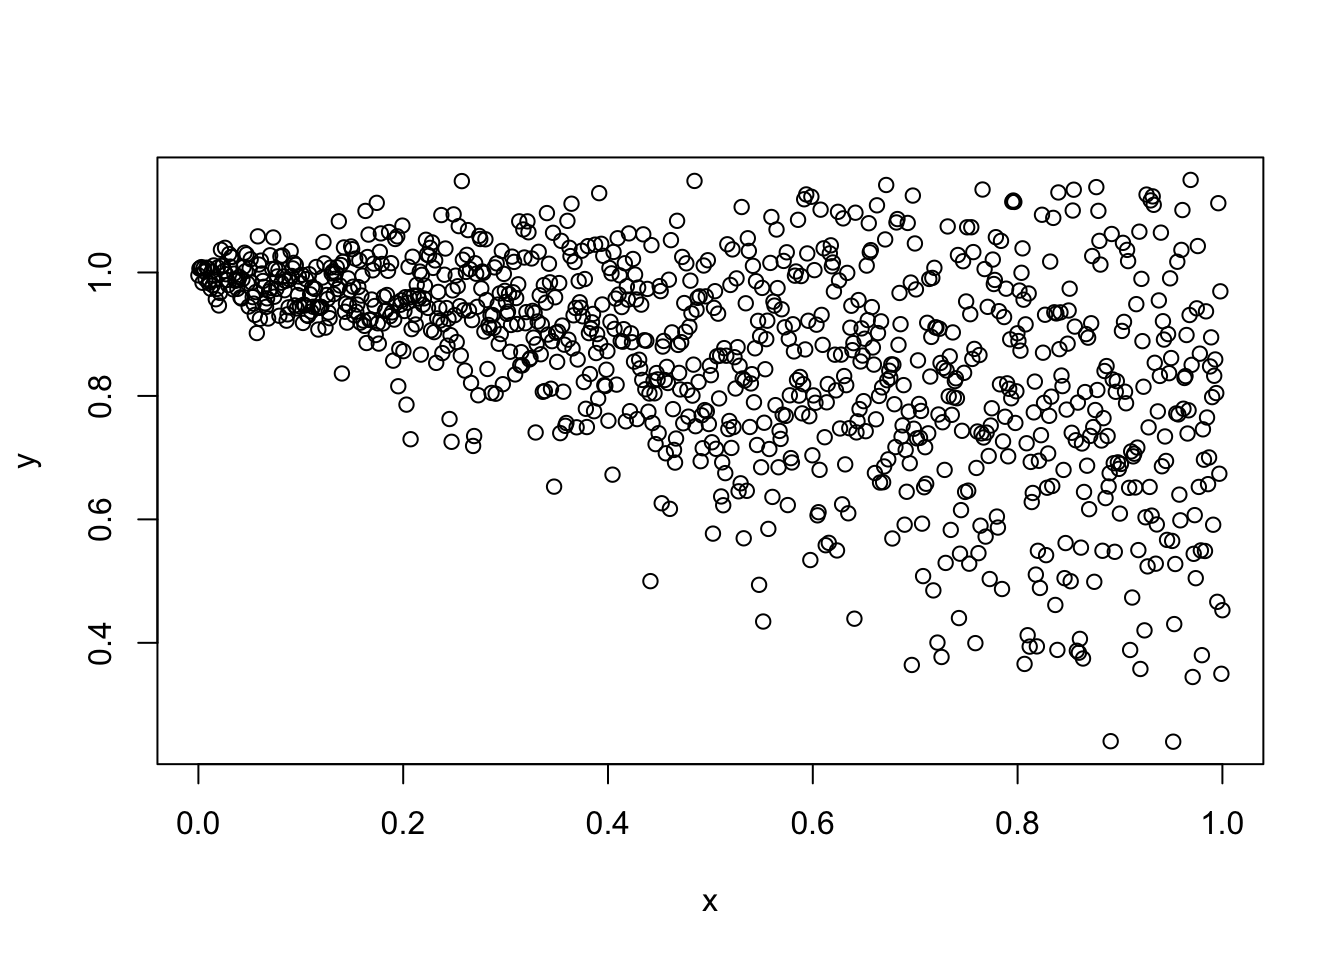
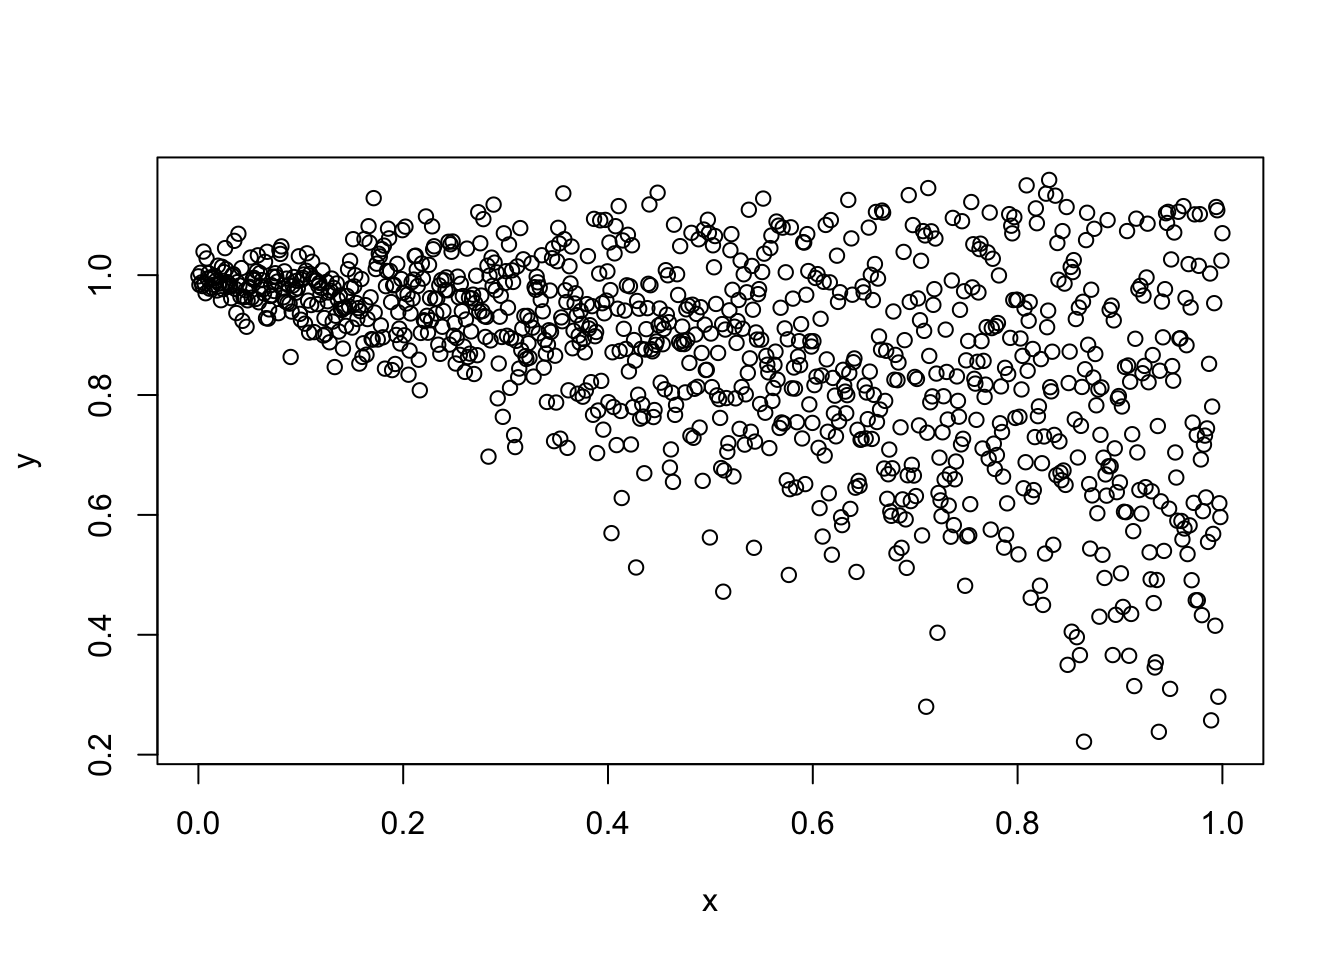
Updating page

diff --git a/docs/index.html b/docs/index.html
@@ -175,7 +175,10 @@ pre > code.sourceCode > span > a:first-child::before { text-decoration: underlin
 
 </header>
 
-<p>Heteroskedastic data (data with non-constant variability across the range of one or more independent variables) occurs in numerous contexts. Using ordinary least squares regression can obscure important features of the relationship between the independent and dependent variable.</p>
+<p>Heteroskedastic data (data with non-constant variability across the range of one or more independent variables) occurs in numerous contexts. Using ordinary least squares regression can obscure important features of the relationship between the independent and dependent variable. Ordinary least squares regression assumes data follows a linear trend and that it is homoskedastic across the range of the independent variable(s). Strictly, this is rarely ever the case but the differences obtained from modelling using techniques that relax these assumptions is not large.</p>
+<p>However, when data is demonstrably non-linear and/or heteroskedastistic, one can utilize quantile regression together with splines to model the entire distribution. The quantile regression allows one to examine heteroskasticitiy and the splines allow one to model any non-linearity.</p>
+<p>To illustrate I’ve created some simulated some heteroskedastic data and then fit the data using both OLS (red) and quantile regression (blue). The quantile regression is fit at the deciles (0.1, 0.2, 0.3, …, 0.9 quantiles). Whereas the OLS line models the conditional mean of the distribution, quantile regression models the conditional quantile. The most common quantile regression fit is for the conditional median, which is often quite close to the conditional mean.</p>
+<p>In addition, we model the data parametrically using lines as well as non-parametrically using splines. The simulated data was not created to include a lot of non-linearity, so the impact of fitting with splines is modest. However, other data may show more dramatic differences.</p>
 <div class="cell">
 <div class="sourceCode cell-code" id="cb1"><pre class="sourceCode r code-with-copy"><code class="sourceCode r"><span id="cb1-1"><a href="#cb1-1" aria-hidden="true" tabindex="-1"></a><span class="fu">library</span>(quantreg)</span></code><button title="Copy to Clipboard" class="code-copy-button"><i class="bi"></i></button></pre></div>
 <div class="cell-output cell-output-stderr">
@@ -197,9 +200,13 @@ Attaching package: 'SparseM'</code></pre>
 <span id="cb5-5"><a href="#cb5-5" aria-hidden="true" tabindex="-1"></a>y <span class="ot">&lt;-</span> <span class="sc">-</span>.<span class="dv">25</span><span class="sc">*</span>x <span class="sc">+</span> <span class="dv">1</span> <span class="sc">+</span> <span class="fu">rnorm</span>(<span class="dv">1000</span>, <span class="at">sd=</span><span class="fu">seq</span>(<span class="fl">0.02</span>, <span class="fl">0.25</span>, <span class="at">length=</span><span class="dv">1000</span>))</span>
 <span id="cb5-6"><a href="#cb5-6" aria-hidden="true" tabindex="-1"></a>y[y <span class="sc">&gt;=</span> <span class="fl">1.1</span>] <span class="ot">&lt;-</span> <span class="fl">1.1</span> <span class="sc">+</span> <span class="fu">rnorm</span>(<span class="fu">length</span>(y[y <span class="sc">&gt;=</span> <span class="fl">1.1</span>]), <span class="at">sd=</span><span class="fl">0.03</span>)</span>
 <span id="cb5-7"><a href="#cb5-7" aria-hidden="true" tabindex="-1"></a>lm<span class="fl">.1</span> <span class="ot">&lt;-</span> <span class="fu">lm</span>(y <span class="sc">~</span> x)</span>
-<span id="cb5-8"><a href="#cb5-8" aria-hidden="true" tabindex="-1"></a>lm.<span class="fl">1.</span>splines <span class="ot">&lt;-</span> <span class="fu">lm</span>(y <span class="sc">~</span> <span class="fu">bs</span>(x))</span>
-<span id="cb5-9"><a href="#cb5-9" aria-hidden="true" tabindex="-1"></a>qr<span class="fl">.1</span> <span class="ot">&lt;-</span> <span class="fu">rq</span>(y <span class="sc">~</span> x, <span class="at">tau=</span><span class="dv">1</span><span class="sc">:</span><span class="dv">9</span><span class="sc">/</span><span class="dv">10</span>)</span>
-<span id="cb5-10"><a href="#cb5-10" aria-hidden="true" tabindex="-1"></a>qr.<span class="fl">1.</span>splines <span class="ot">&lt;-</span> <span class="fu">rq</span>(y <span class="sc">~</span> <span class="fu">bs</span>(x), <span class="at">tau=</span><span class="dv">1</span><span class="sc">:</span><span class="dv">9</span><span class="sc">/</span><span class="dv">10</span>)</span></code><button title="Copy to Clipboard" class="code-copy-button"><i class="bi"></i></button></pre></div>
+<span id="cb5-8"><a href="#cb5-8" aria-hidden="true" tabindex="-1"></a>lm.<span class="fl">1.</span>predict <span class="ot">&lt;-</span> <span class="fu">predict</span>(lm<span class="fl">.1</span>)</span>
+<span id="cb5-9"><a href="#cb5-9" aria-hidden="true" tabindex="-1"></a>lm.<span class="fl">1.</span>splines <span class="ot">&lt;-</span> <span class="fu">lm</span>(y <span class="sc">~</span> <span class="fu">bs</span>(x))</span>
+<span id="cb5-10"><a href="#cb5-10" aria-hidden="true" tabindex="-1"></a>lm.<span class="fl">1.</span>splines.predict <span class="ot">&lt;-</span> <span class="fu">predict</span>(lm.<span class="fl">1.</span>splines)</span>
+<span id="cb5-11"><a href="#cb5-11" aria-hidden="true" tabindex="-1"></a>qr<span class="fl">.1</span> <span class="ot">&lt;-</span> <span class="fu">rq</span>(y <span class="sc">~</span> x, <span class="at">tau=</span><span class="dv">1</span><span class="sc">:</span><span class="dv">9</span><span class="sc">/</span><span class="dv">10</span>)</span>
+<span id="cb5-12"><a href="#cb5-12" aria-hidden="true" tabindex="-1"></a>qr.<span class="fl">1.</span>predict <span class="ot">&lt;-</span> <span class="fu">predict</span>(qr<span class="fl">.1</span>)</span>
+<span id="cb5-13"><a href="#cb5-13" aria-hidden="true" tabindex="-1"></a>qr.<span class="fl">1.</span>splines <span class="ot">&lt;-</span> <span class="fu">rq</span>(y <span class="sc">~</span> <span class="fu">bs</span>(x), <span class="at">tau=</span><span class="dv">1</span><span class="sc">:</span><span class="dv">9</span><span class="sc">/</span><span class="dv">10</span>)</span>
+<span id="cb5-14"><a href="#cb5-14" aria-hidden="true" tabindex="-1"></a>qr.<span class="fl">1.</span>splines.predict <span class="ot">&lt;-</span> <span class="fu">predict</span>(qr.<span class="fl">1.</span>splines)</span></code><button title="Copy to Clipboard" class="code-copy-button"><i class="bi"></i></button></pre></div>
 </div>
 <div class="tabset-margin-container"></div><div class="panel-tabset">
 <ul class="nav nav-tabs" role="tablist"><li class="nav-item" role="presentation"><a class="nav-link active" id="tabset-1-1-tab" data-bs-toggle="tab" data-bs-target="#tabset-1-1" role="tab" aria-controls="tabset-1-1" aria-selected="true">Data</a></li><li class="nav-item" role="presentation"><a class="nav-link" id="tabset-1-2-tab" data-bs-toggle="tab" data-bs-target="#tabset-1-2" role="tab" aria-controls="tabset-1-2" aria-selected="false">Linear Fit</a></li><li class="nav-item" role="presentation"><a class="nav-link" id="tabset-1-3-tab" data-bs-toggle="tab" data-bs-target="#tabset-1-3" role="tab" aria-controls="tabset-1-3" aria-selected="false">Spline Fit</a></li></ul>
@@ -215,11 +222,10 @@ Attaching package: 'SparseM'</code></pre>
 <div id="tabset-1-2" class="tab-pane" role="tabpanel" aria-labelledby="tabset-1-2-tab">
 <div class="cell">
 <div class="sourceCode cell-code" id="cb7"><pre class="sourceCode r code-with-copy"><code class="sourceCode r"><span id="cb7-1"><a href="#cb7-1" aria-hidden="true" tabindex="-1"></a><span class="fu">plot</span>(x, y)</span>
-<span id="cb7-2"><a href="#cb7-2" aria-hidden="true" tabindex="-1"></a><span class="fu">abline</span>(lm<span class="fl">.1</span>, <span class="at">col=</span><span class="st">"red"</span>)</span>
-<span id="cb7-3"><a href="#cb7-3" aria-hidden="true" tabindex="-1"></a><span class="fu">abline</span>(qr<span class="fl">.1</span>, <span class="at">col=</span><span class="st">"blue"</span>)</span></code><button title="Copy to Clipboard" class="code-copy-button"><i class="bi"></i></button></pre></div>
-<div class="cell-output cell-output-stderr">
-<pre><code>Warning in abline(qr.1, col = "blue"): only using the first two of 18 regression coefficients</code></pre>
-</div>
+<span id="cb7-2"><a href="#cb7-2" aria-hidden="true" tabindex="-1"></a><span class="fu">points</span>(x, lm.<span class="fl">1.</span>predict, <span class="at">type=</span><span class="st">"l"</span>, <span class="at">col=</span><span class="st">"red"</span>)</span>
+<span id="cb7-3"><a href="#cb7-3" aria-hidden="true" tabindex="-1"></a><span class="cf">for</span> (col.iter <span class="cf">in</span> <span class="fu">seq</span>(<span class="fu">ncol</span>(qr.<span class="fl">1.</span>predict))) {</span>
+<span id="cb7-4"><a href="#cb7-4" aria-hidden="true" tabindex="-1"></a>    <span class="fu">points</span>(x, qr.<span class="fl">1.</span>predict[,col.iter], <span class="at">type=</span><span class="st">"l"</span>, <span class="at">col=</span><span class="st">"blue"</span>)</span>
+<span id="cb7-5"><a href="#cb7-5" aria-hidden="true" tabindex="-1"></a>}</span></code><button title="Copy to Clipboard" class="code-copy-button"><i class="bi"></i></button></pre></div>
 <div class="cell-output-display">
 <p><img src="index_files/figure-html/unnamed-chunk-3-1.png" class="img-fluid" width="672"></p>
 </div>
@@ -227,12 +233,11 @@ Attaching package: 'SparseM'</code></pre>
 </div>
 <div id="tabset-1-3" class="tab-pane" role="tabpanel" aria-labelledby="tabset-1-3-tab">
 <div class="cell">
-<div class="sourceCode cell-code" id="cb9"><pre class="sourceCode r code-with-copy"><code class="sourceCode r"><span id="cb9-1"><a href="#cb9-1" aria-hidden="true" tabindex="-1"></a><span class="fu">plot</span>(x, y)</span>
-<span id="cb9-2"><a href="#cb9-2" aria-hidden="true" tabindex="-1"></a><span class="fu">abline</span>(lm<span class="fl">.1</span>, <span class="at">col=</span><span class="st">"red"</span>)</span>
-<span id="cb9-3"><a href="#cb9-3" aria-hidden="true" tabindex="-1"></a><span class="fu">abline</span>(qr<span class="fl">.1</span>, <span class="at">col=</span><span class="st">"blue"</span>)</span></code><button title="Copy to Clipboard" class="code-copy-button"><i class="bi"></i></button></pre></div>
-<div class="cell-output cell-output-stderr">
-<pre><code>Warning in abline(qr.1, col = "blue"): only using the first two of 18 regression coefficients</code></pre>
-</div>
+<div class="sourceCode cell-code" id="cb8"><pre class="sourceCode r code-with-copy"><code class="sourceCode r"><span id="cb8-1"><a href="#cb8-1" aria-hidden="true" tabindex="-1"></a><span class="fu">plot</span>(x, y)</span>
+<span id="cb8-2"><a href="#cb8-2" aria-hidden="true" tabindex="-1"></a><span class="fu">points</span>(x, lm.<span class="fl">1.</span>splines.predict, <span class="at">type=</span><span class="st">"l"</span>, <span class="at">col=</span><span class="st">"red"</span>)</span>
+<span id="cb8-3"><a href="#cb8-3" aria-hidden="true" tabindex="-1"></a><span class="cf">for</span> (col.iter <span class="cf">in</span> <span class="fu">seq</span>(<span class="fu">ncol</span>(qr.<span class="fl">1.</span>predict))) {</span>
+<span id="cb8-4"><a href="#cb8-4" aria-hidden="true" tabindex="-1"></a>    <span class="fu">points</span>(x, qr.<span class="fl">1.</span>splines.predict[,col.iter], <span class="at">type=</span><span class="st">"l"</span>, <span class="at">col=</span><span class="st">"blue"</span>)</span>
+<span id="cb8-5"><a href="#cb8-5" aria-hidden="true" tabindex="-1"></a>}</span></code><button title="Copy to Clipboard" class="code-copy-button"><i class="bi"></i></button></pre></div>
 <div class="cell-output-display">
 <p><img src="index_files/figure-html/unnamed-chunk-4-1.png" class="img-fluid" width="672"></p>
 </div>
